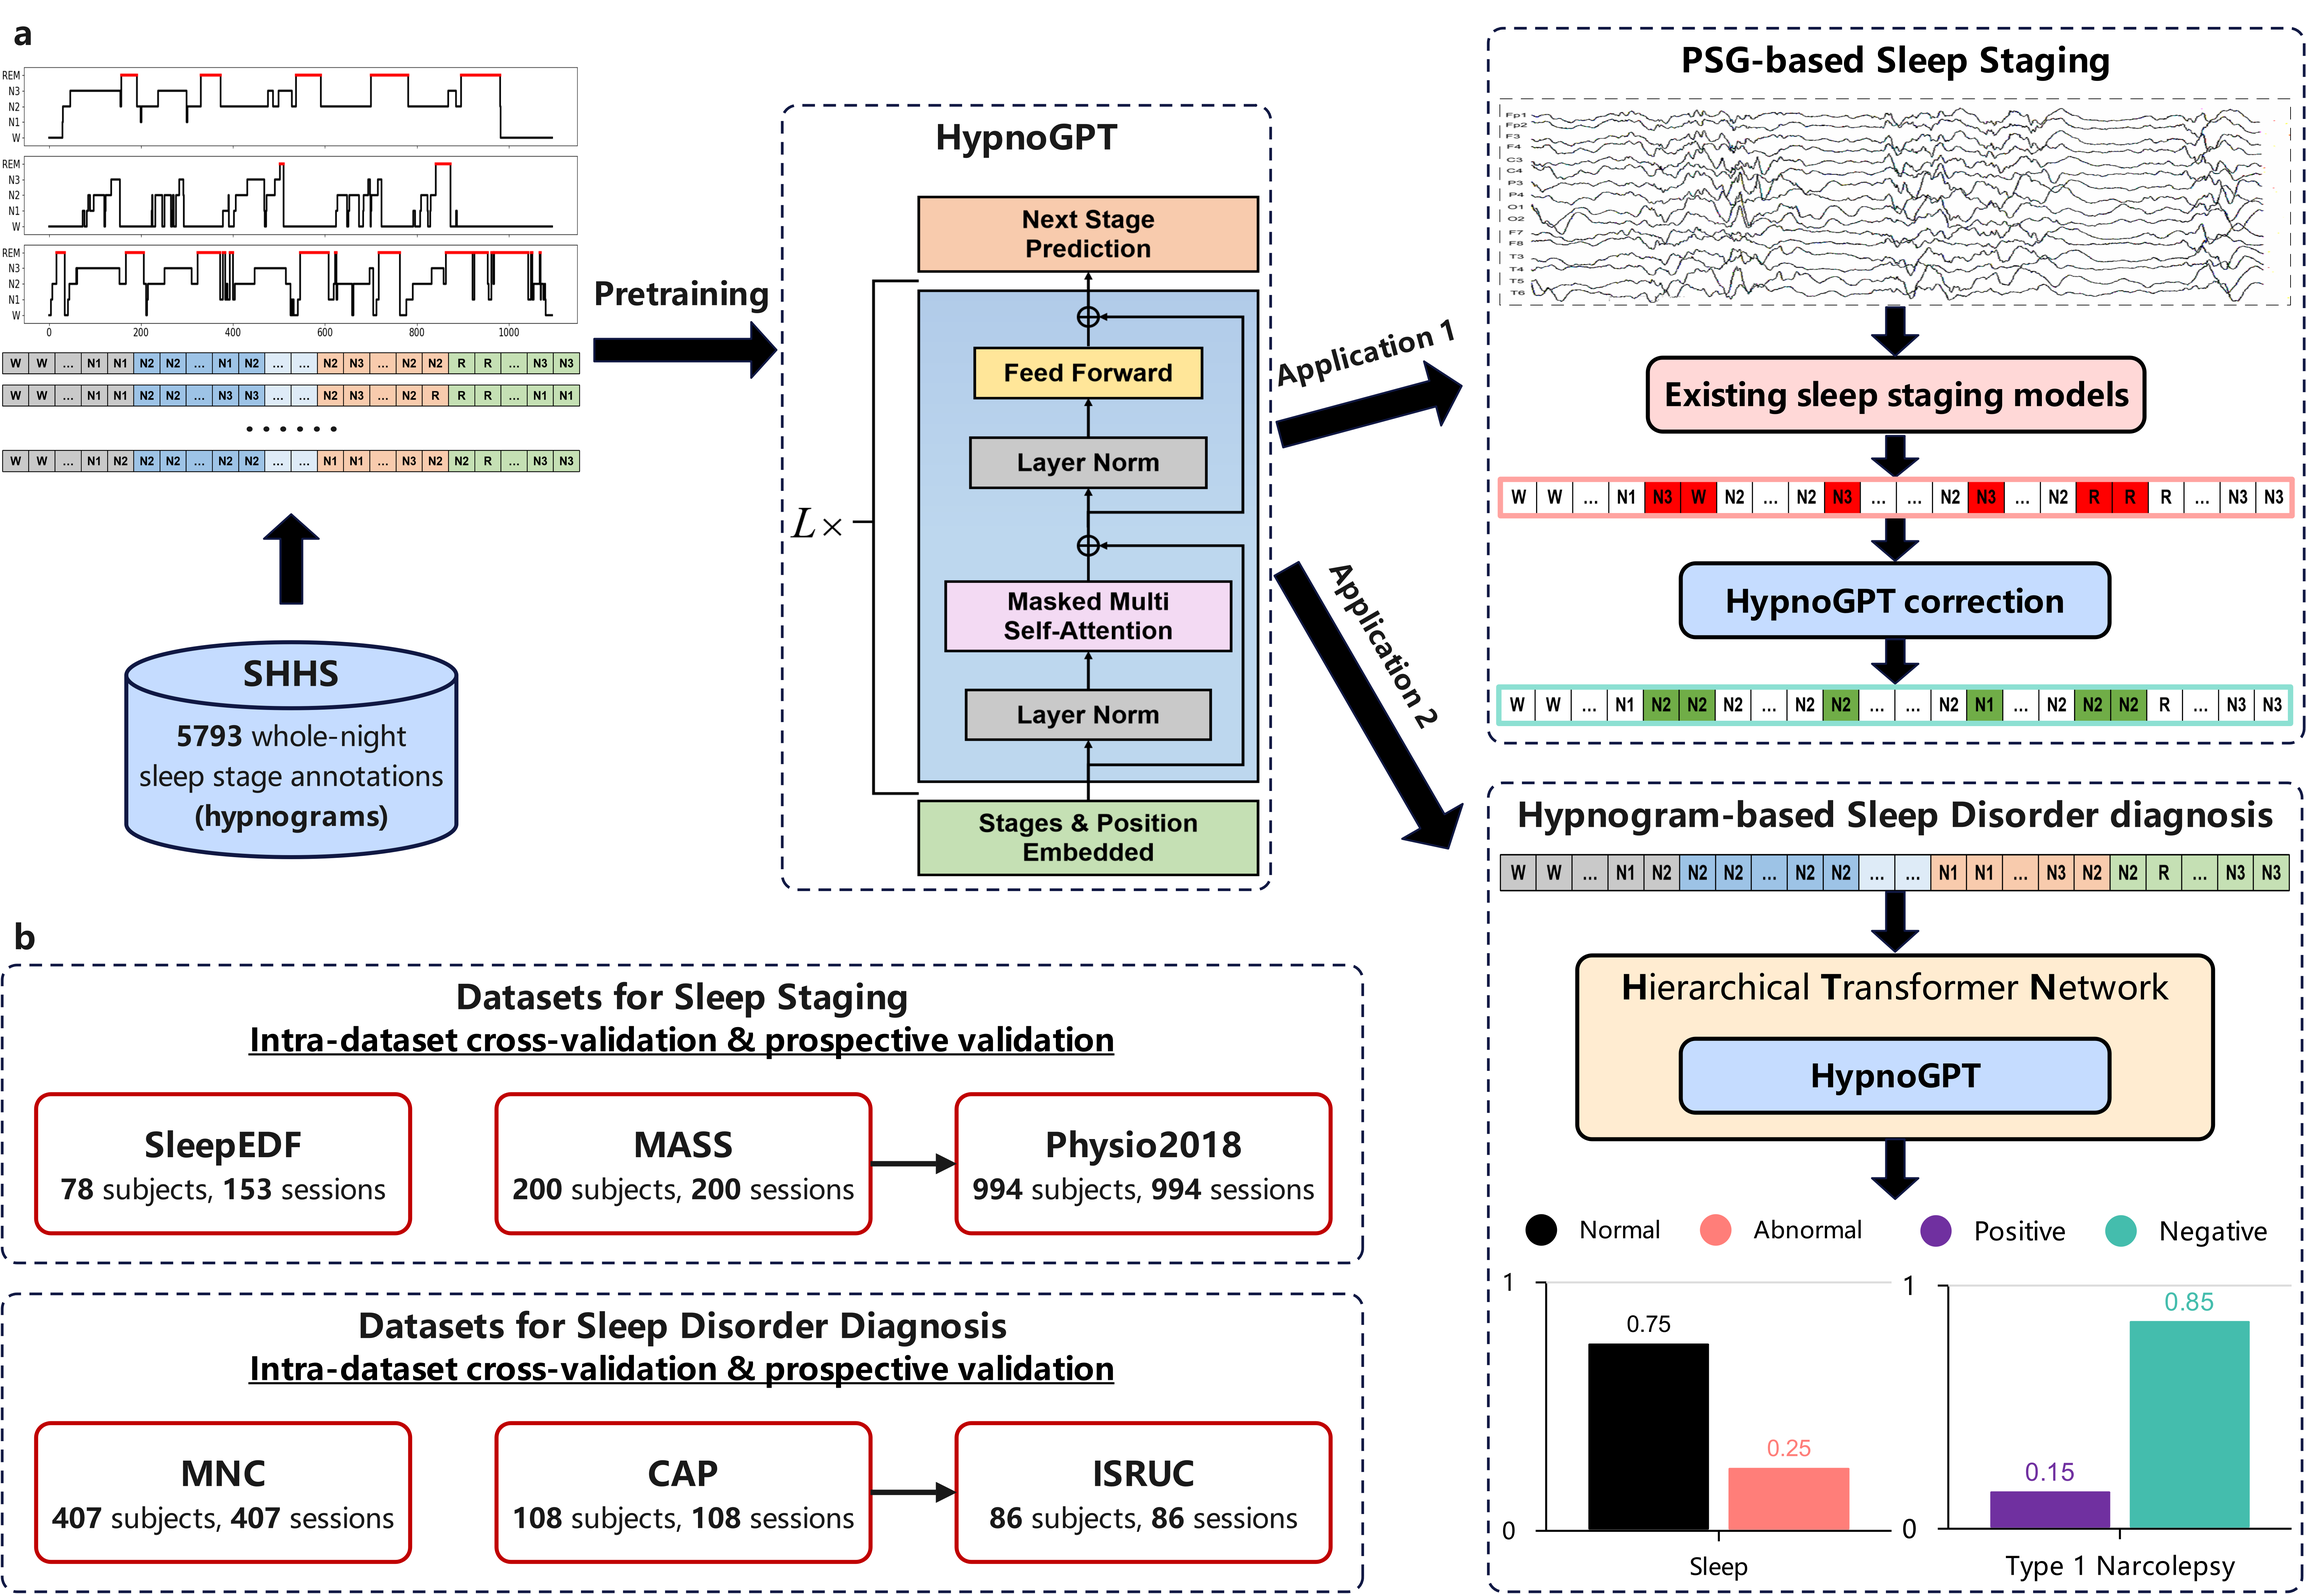
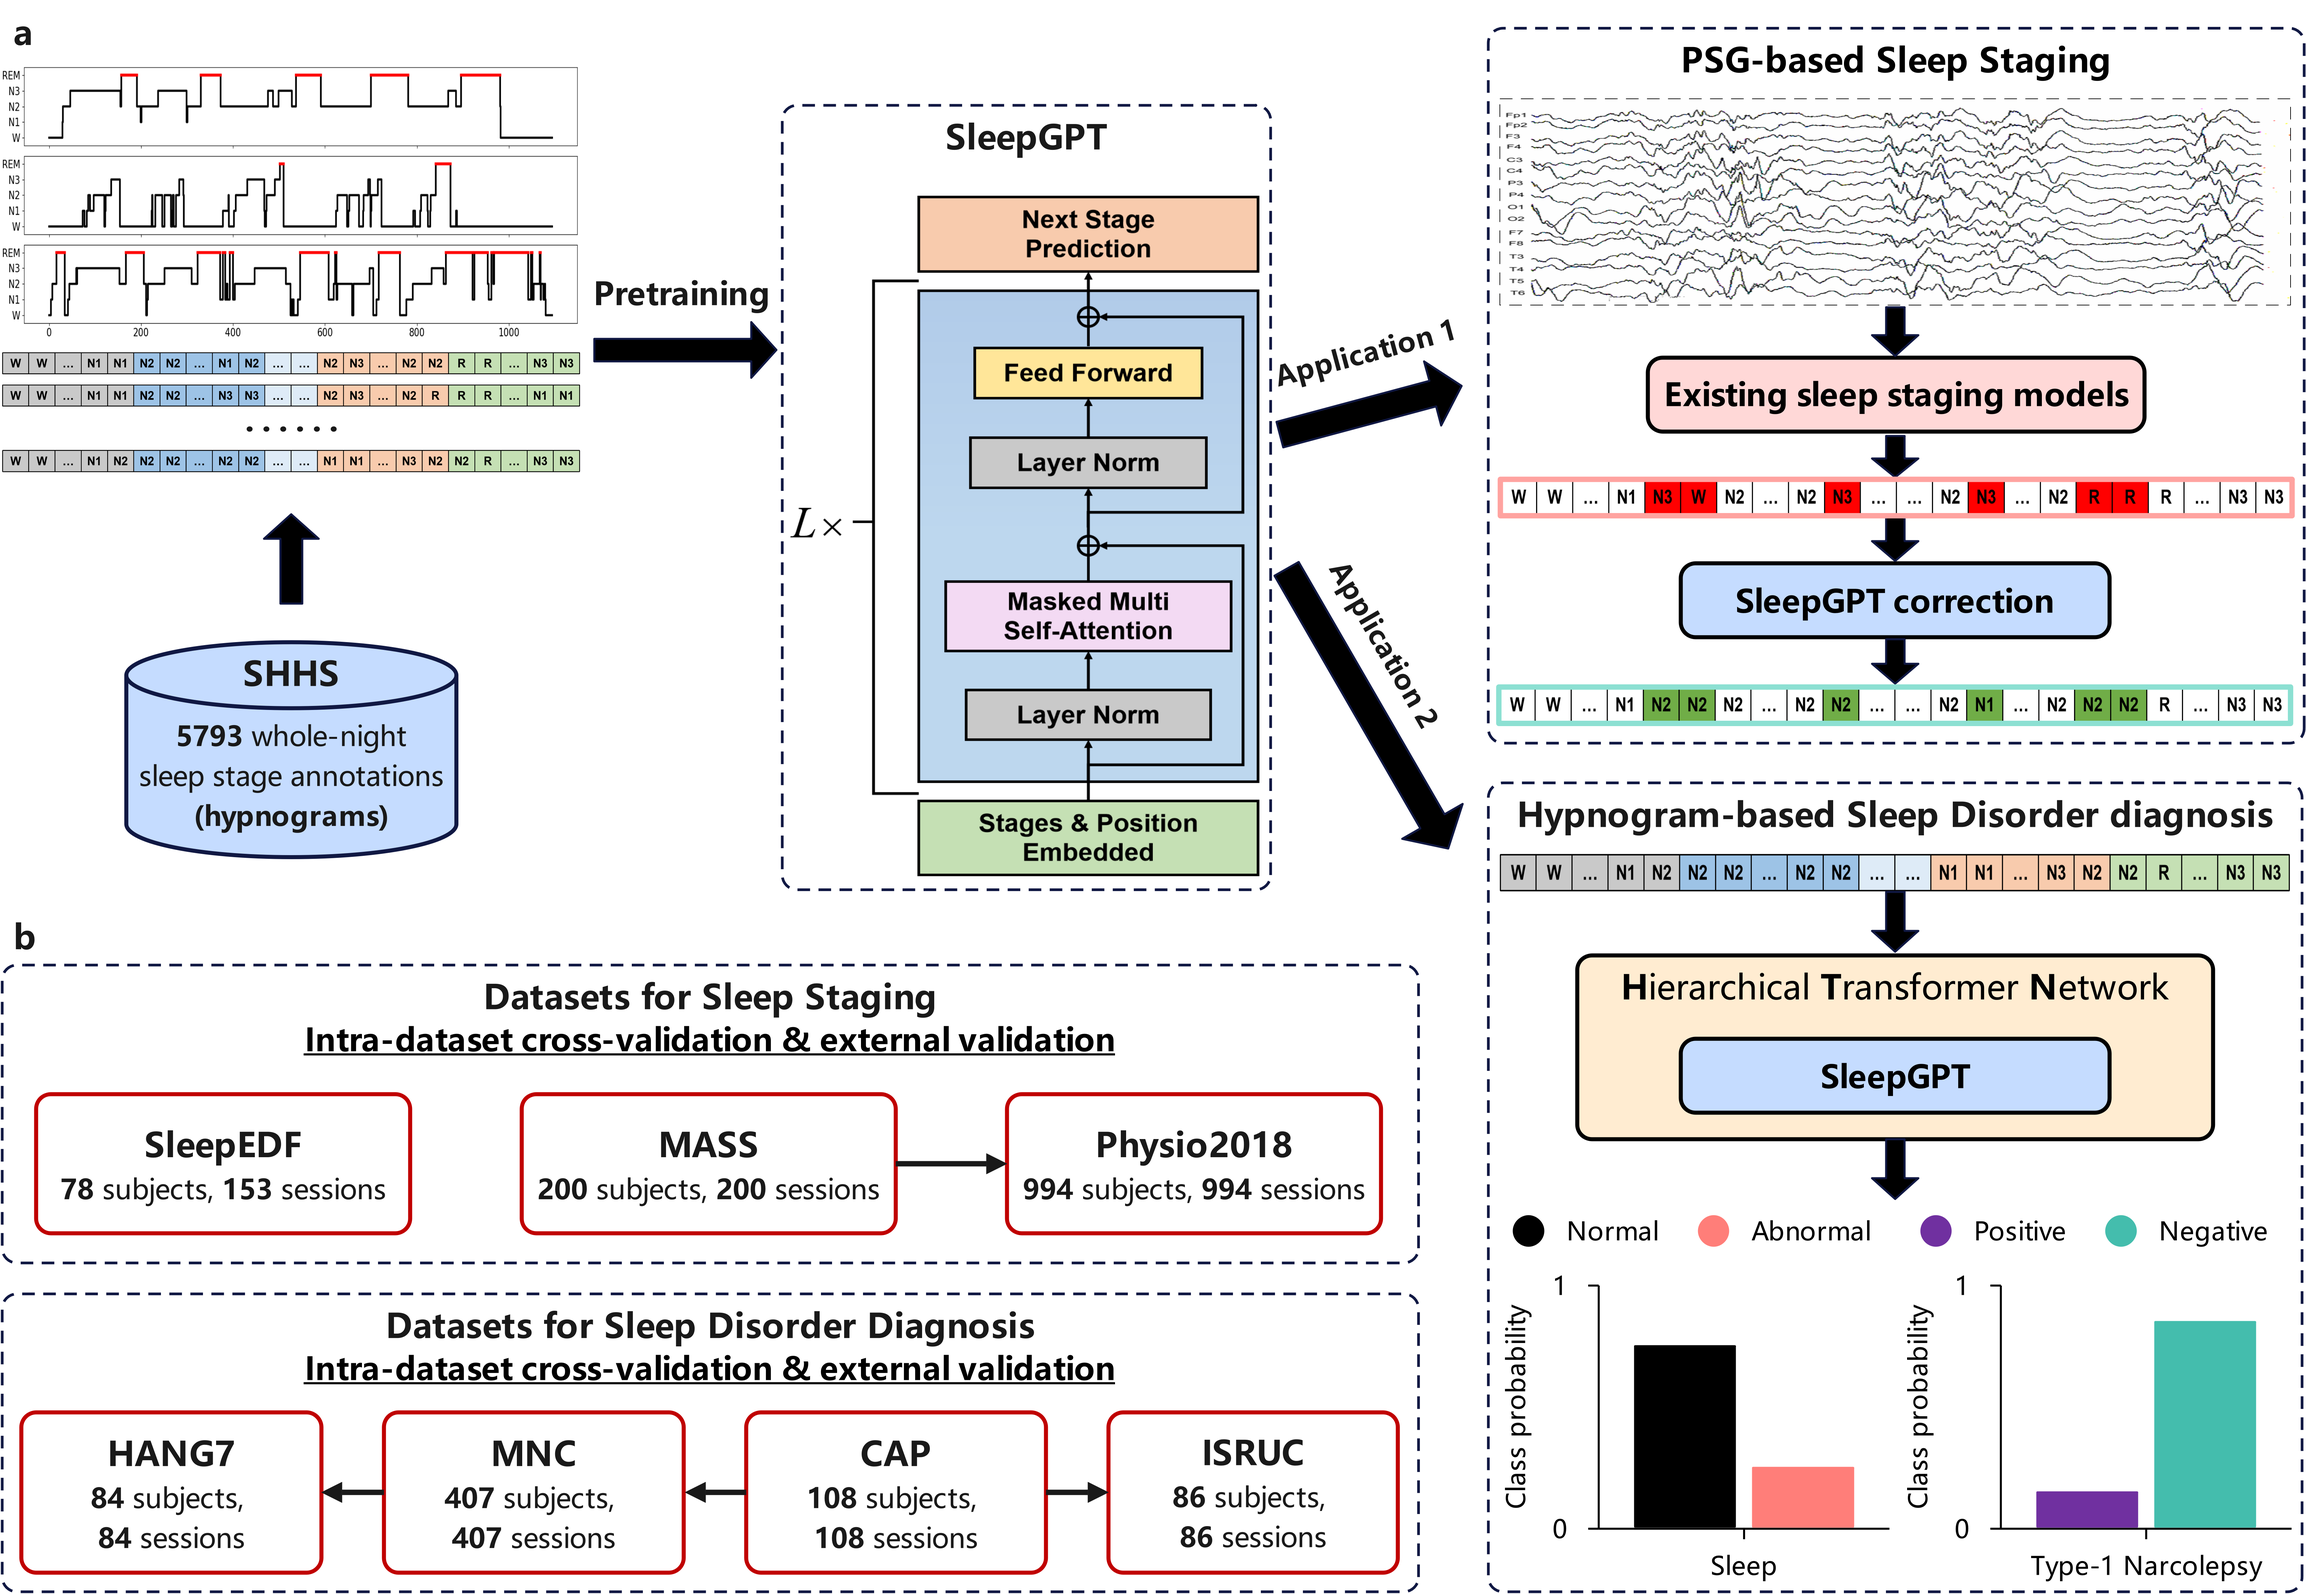
title change

diff --git a/README.md b/README.md
@@ -1,24 +1,24 @@
-# HypnoGPT: A Hypnogram Language Model for Sleep Staging Enhancement and Sleep Disorder Diagnosis
+# SleepGPT: Enhancing Sleep Assessment With a Language Model Built on Sleep Stage Sequences
 
 ## Overview
 
-![Framework](https://github.com/yuty2009/hypnogpt/blob/main/figures/framework.png)
-**Overview of the proposed HypnoGPT model and applications to sleep staging enhancement and sleep disorder diagnosis**. (**a**) The HypnoGPT model is pretrained on a large sleep stage annotation dataset and is used to correct the sleep stage predictions of existing sleep staging models. Moreover, a hierarchical transformer network (HTN) is employed for sleep disorder diagnosis, with HypnoGPT acting as a local feature extractor. (**b**) Datasets for evaluating the proposed artificial intelligence (AI) systems. For sleep staging, cross-validation of the AI systems is performed on the SleepEDF and MASS datasets. The models trained from the MASS datasets are then prospectively validated on the Physio2018 dataset for generalizability assessment. For sleep disorder diagnosis, cross-validation of the AI systems is performed on the CAP and MNC datasets. The models trained from the CAP dataset are then prospectively validated on the ISRUC dataset for generalizability assessment.
+![Framework](https://github.com/yuty2009/sleepgpt/blob/main/figures/framework.png)
+**Overview of the proposed SleepGPT model and applications to sleep staging enhancement and sleep disorder diagnosis**. (**a**) The SleepGPT model is pretrained on a large sleep stage annotation dataset and is used to correct the sleep stage predictions of existing sleep staging models. Moreover, a hierarchical transformer network (HTN) is employed for sleep disorder diagnosis, with SleepGPT acting as a local feature extractor. (**b**) Datasets for evaluating the proposed artificial intelligence (AI) models. For sleep staging, cross-validation of the AI models is performed on the SleepEDF and MASS datasets. The models trained from the MASS datasets are then externally validated on the Physio2018 dataset for generalizability assessment. For sleep disorder diagnosis, cross-validation of the AI models is performed on the CAP and MNC datasets. For generalizability assessment, models trained on the CAP dataset for distinguishing normal from abnormal sleep stage sequences are validated externally using the ISRUC, MNC, and HANG7 datasets, while those trained on the MNC dataset for distinguishing Type-1 narcolepsy from other hypersomnia and healthy controls are externally validated on the HANG7 dataset.
 
-![HypnoGPT](https://github.com/yuty2009/hypnogpt/blob/main/figures/hypnogpt.png)
-The architecture of the proposed HypnoGPT model comprises a series of $L$ transformer decoder blocks. Overlapping blocks consisting of $K$ stages are extracted from an overnight sleep stage sequence with a stride of 1. Here, the $(i-1)$th input block of $K$ sleep stages are fed into the model for predicting the $i$th target block.
+![SleepGPT](https://github.com/yuty2009/sleepgpt/blob/main/figures/sleepgpt.png)
+The architecture of the proposed SleepGPT model comprises a series of $L$ transformer decoder blocks. Overlapping blocks consisting of $K$ stages are extracted from an overnight sleep stage sequence with a stride of 1. Here, the $(i-1)$th input block of $K$ sleep stages are fed into the model for predicting the $i$th target block.
 
-![Hierarchical Transformer Network](https://github.com/yuty2009/hypnogpt/blob/main/figures/hypnogpt_htn.png)
-The hierarchical transformer network (HTN) for stage sequence-based sleep disorder diagnosis. The HTN model comprises a local feature extractor, i.e., the HypnoGPT model, a transformer encoder responsible for global feature extraction, and a classification head dedicated to diagnosis. The configuration of the global transformer encoder is depicted to the right. Positioned at the bottom is an example of a whole-night sleep stage sequence, partitioned into non-overlapping segments that are subsequently input into the HTN model.
+![Hierarchical Transformer Network](https://github.com/yuty2009/sleepgpt/blob/main/figures/sleepgpt_htn.png)
+The hierarchical transformer network (HTN) for stage sequence-based sleep disorder diagnosis. The HTN model comprises a local feature extractor, i.e., the SleepGPT model, a transformer encoder responsible for global feature extraction, and a classification head dedicated to diagnosis. The configuration of the global transformer encoder is depicted to the right. Positioned at the bottom is an example of a whole-night sleep stage sequence, partitioned into non-overlapping segments that are subsequently input into the HTN model.
 
 ## Run the code
 
-### Train HypnoGPT
+### Train SleepGPT
 ```python
 python main_train_slm.py 
 ```
 
-### Sleep Staging with HypnoGPT
+### Sleep Staging with SleepGPT
 Stage with pretrained sleep staging models
 ```python
 python main_stage_slm.py
@@ -38,9 +38,9 @@ python main_diagnose_cv.py
 If you use the code or results in your research, please consider citing our work at:
 
 ```
-@article{yu2024hypnogpt,
-  title={HypnoGPT:~A Hypnogram Language Model for Sleep Staging Enhancement and Sleep Disorder Diagnosis},
-  author={Yu, Tianyou and Gu, Zhenghui and Wang, Fei and Li, Man and Xu, Yan and Zhang, Jun and Yu, Jingang and Yu, Zhuliang and Li, Yuanqing and Xiao, Jun and Wu, Wei},
+@article{yu2024sleepgpt,
+  title={Enhancing Sleep Assessment With a Language Model Built on Sleep Stage Sequences},
+  author={Yu, Tianyou and Gu, Zhenghui and Wang, Fei and Huang, Rui and Li, Man and Yu, Jingang and Yu, Zhuliang and Zhang, Jun and Xu, Yan and Jiang, Haiteng and Liu, Wenjuan and Deng, Guifeng and Gao, Zhengrun and Wu, Yiwen and Liu, Jun and Zhang, Yu and Jones, Matt W and Li, Yuanqing and Xiao, Jun and Wu, Wei},
   journal={},
   volume={},
   pages={},
